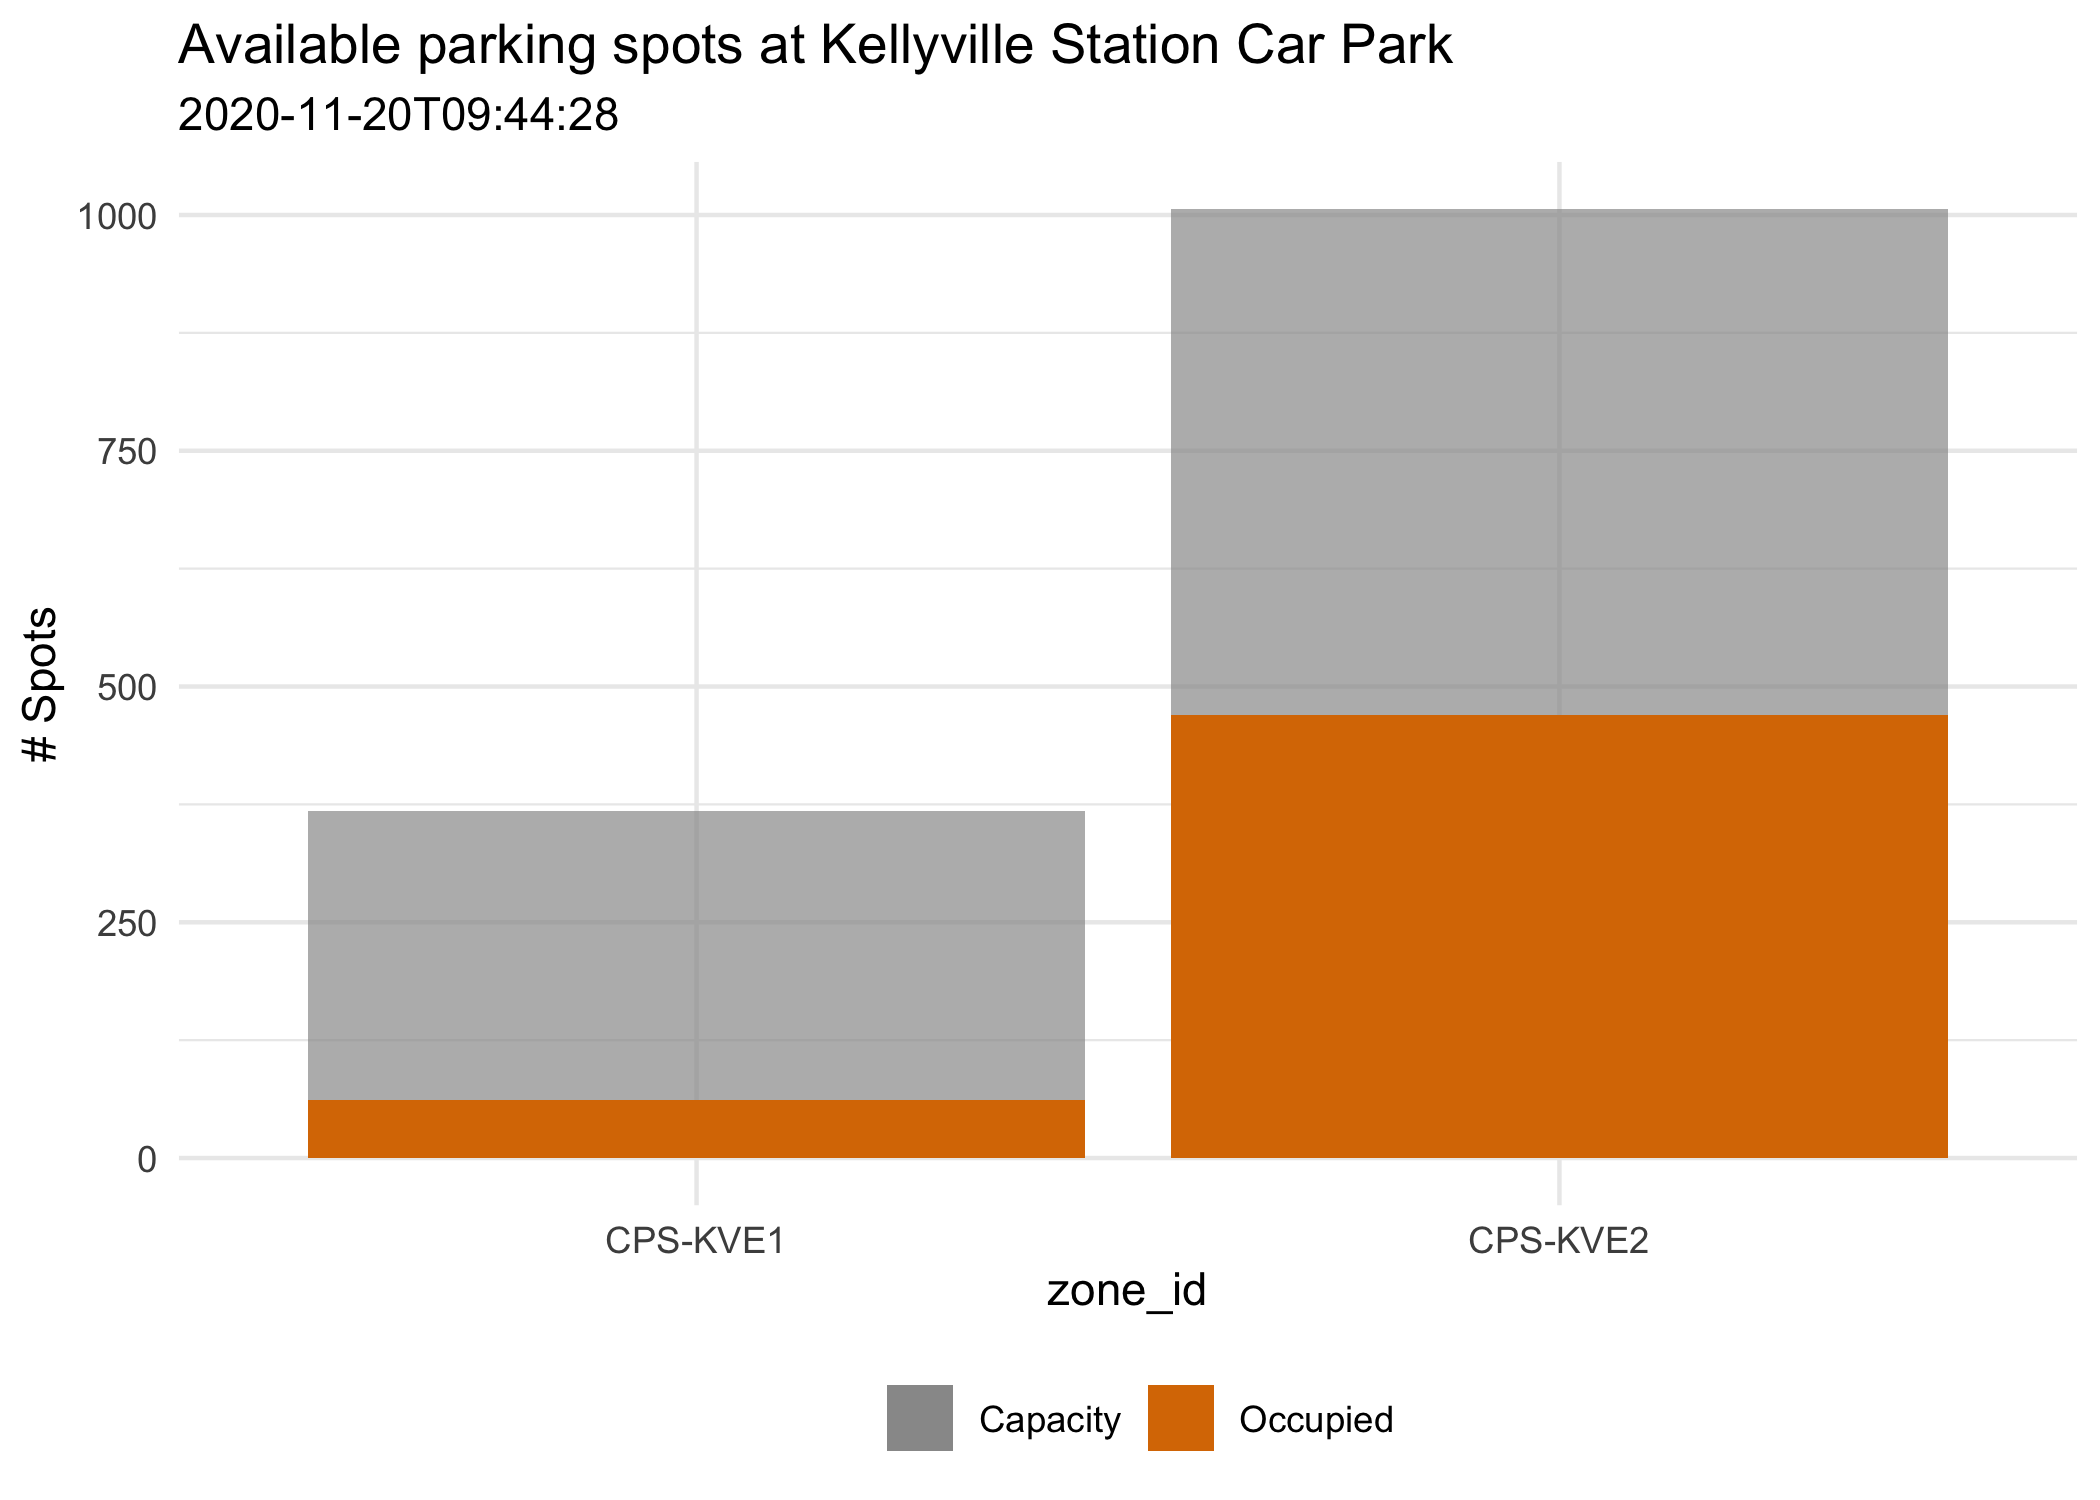
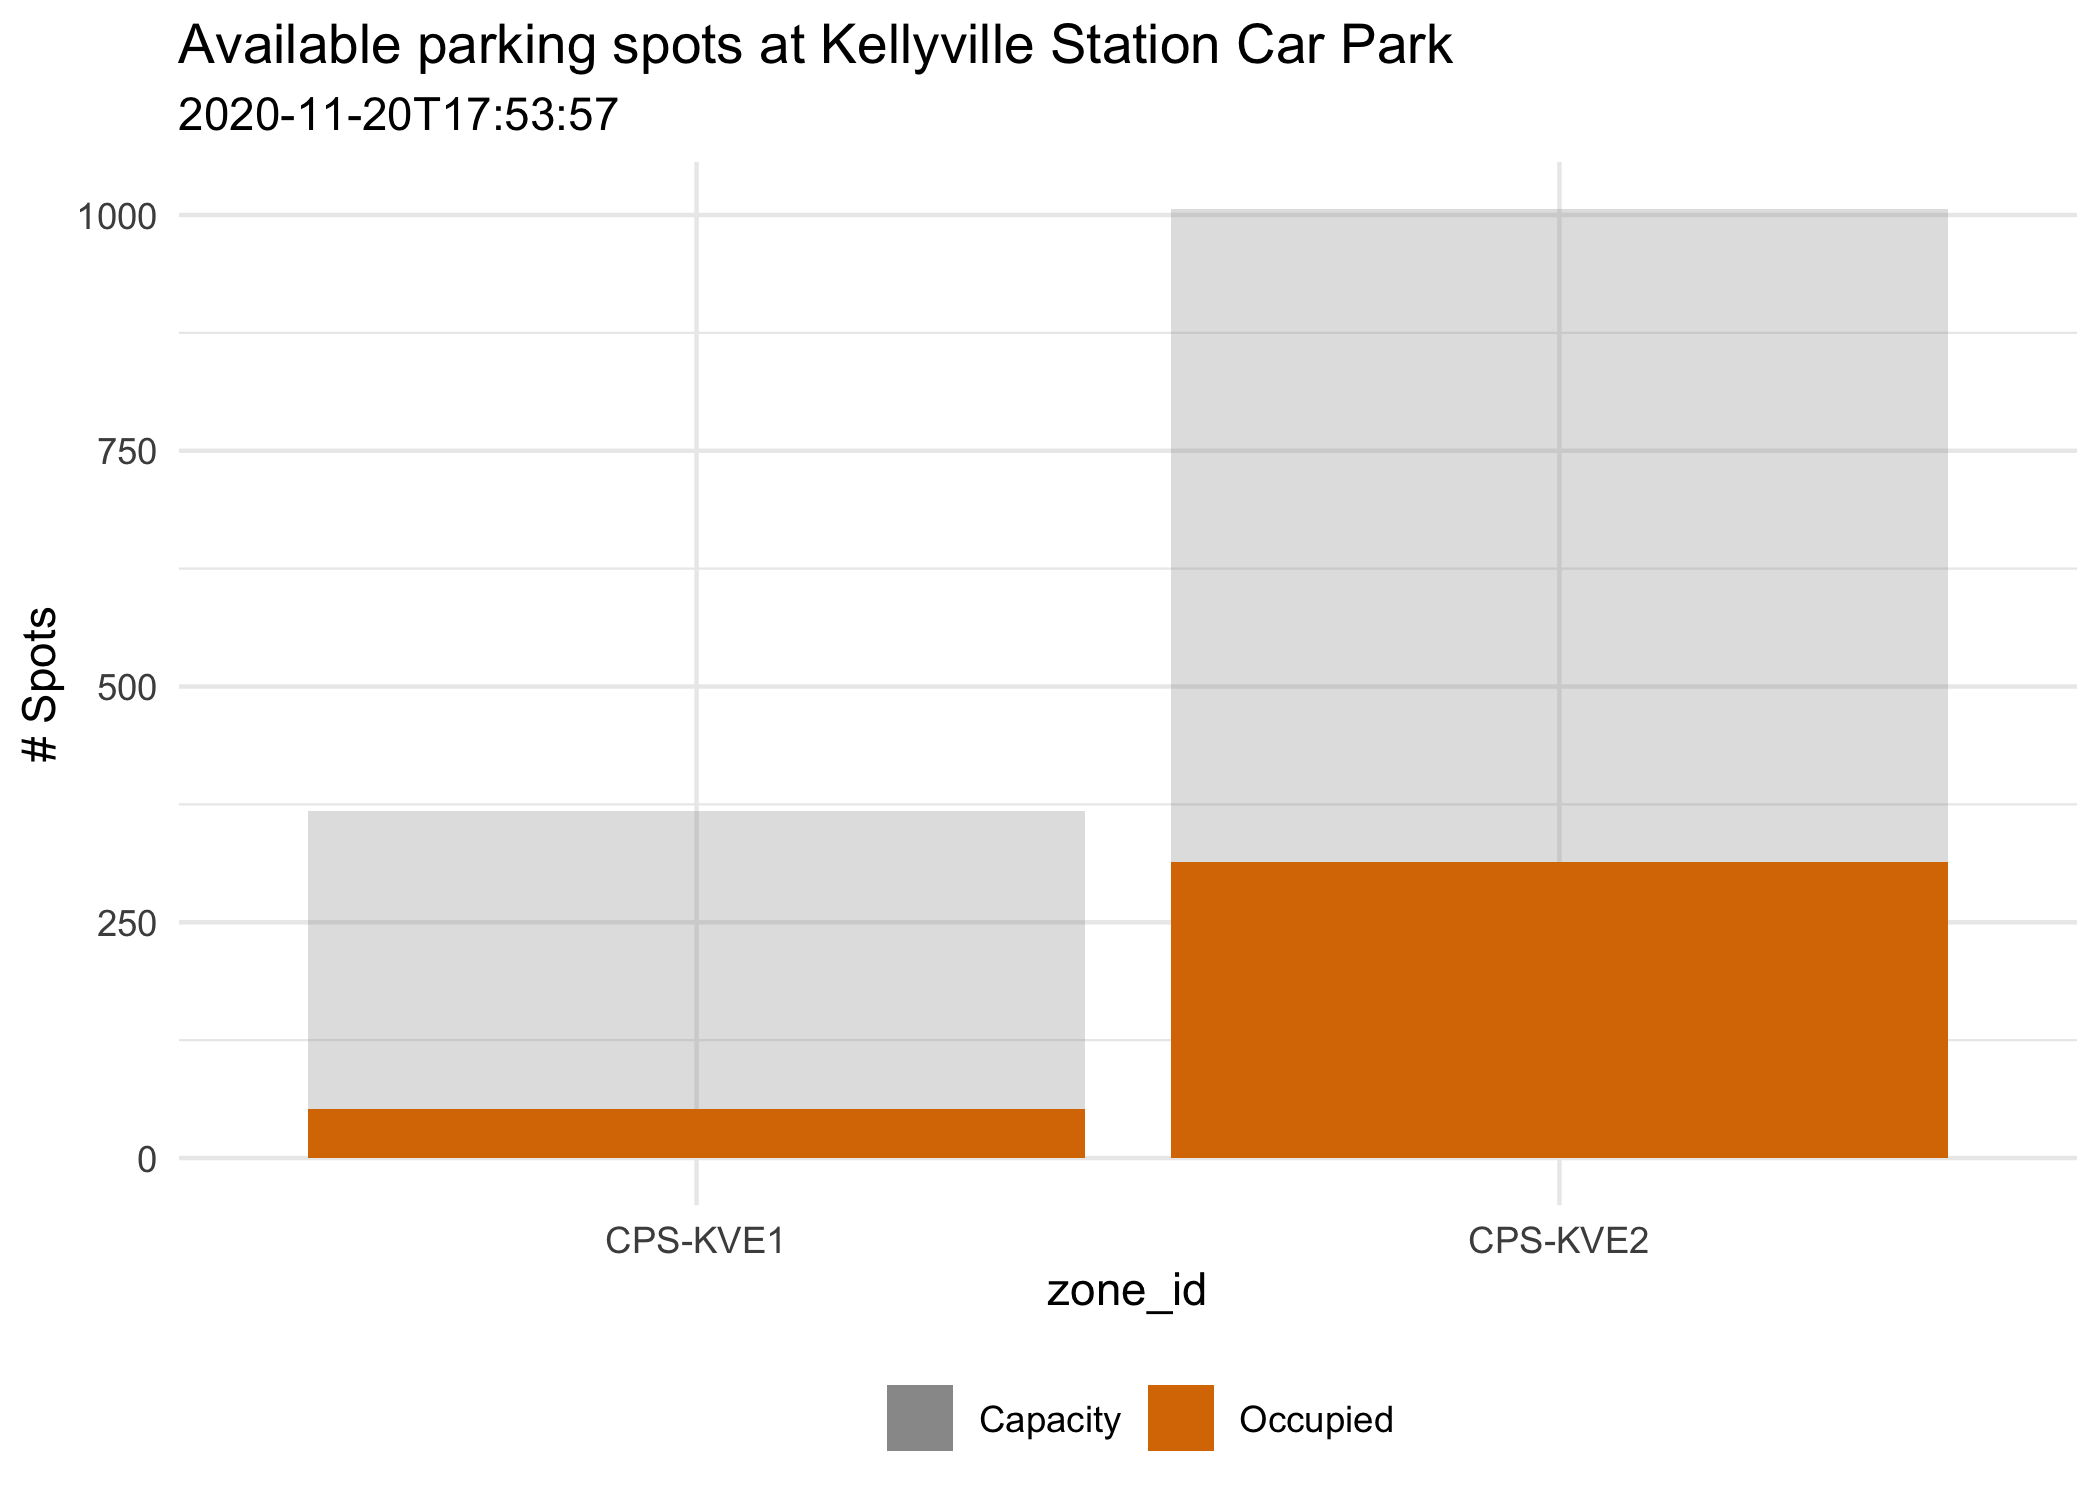
update README figs

Changed region(s): [[0.5571, 0.1227, 0.9286, 0.5827], [0.1238, 0.5213, 0.5262, 0.7667], [0.2167, 0.0613, 0.3095, 0.092]]

diff --git a/README.md b/README.md
@@ -68,7 +68,7 @@ tidied_carpark = data.frame(
 
 library(ggplot2)
 ggplot(data = tidied_carpark, aes(x = zone_id)) +
-  geom_col(aes(y = as.integer(total_spots), fill = "Capacity"), alpha = 0.7) +
+  geom_col(aes(y = as.integer(total_spots), fill = "Capacity"), alpha = 0.3) +
   geom_col(aes(y = as.integer(occupied_spots), fill = "Occupied")) +
   theme_minimal() +
   scale_fill_manual(values = c("Occupied" = "#DA7800", "Capacity" = "grey60")) +
